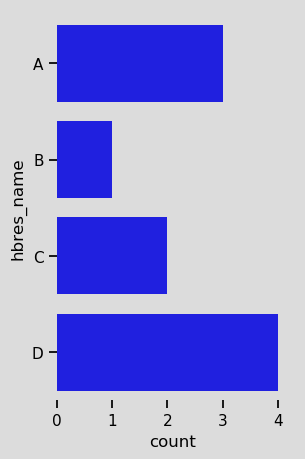
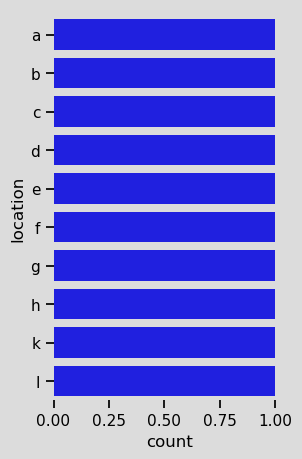
Changed the layout of the app, added dynamic dropdown with common variables and made plots react to dropdown choice

diff --git a/hello.html b/hello.html
@@ -51,7 +51,7 @@
                         <TD>Number of columns</TD>
                     </TR>
                     <TR>
-                        <TD>9</TD>
+                        <TD>11</TD>
                         <TD>5</TD>
                     </TR>
                 </table>
@@ -114,17 +114,17 @@
             
                 <TR>
                     <TD>location</TD>
-                    <TD class=unique_highlight>
+                    <TD class=>
                         10
                     </TD>
-                    <TD class=unique_highlight>
-                        9
-                    </TD>
                     <TD class=>
+                        10
+                    </TD>
+                    <TD class=na_highlight>
                         0
                     </TD>
-                    <TD class=>
-                        0
+                    <TD class=na_highlight>
+                        1
                     </TD>
                 </TR>
             
@@ -136,43 +136,43 @@
                     <TD class=>
                         2
                     </TD>
-                    <TD class=na_highlight>
+                    <TD class=>
                         2
                     </TD>
-                    <TD class=na_highlight>
-                        1
+                    <TD class=>
+                        2
                     </TD>
                 </TR>
             
                 <TR>
                     <TD>age</TD>
-                    <TD class=>
+                    <TD class=unique_highlight>
                         6
                     </TD>
-                    <TD class=>
-                        6
+                    <TD class=unique_highlight>
+                        5
                     </TD>
-                    <TD class=>
+                    <TD class=na_highlight>
                         0
                     </TD>
-                    <TD class=>
-                        0
+                    <TD class=na_highlight>
+                        2
                     </TD>
                 </TR>
             
                 <TR>
                     <TD>episodes</TD>
-                    <TD class=unique_highlight>
+                    <TD class=>
                         7
                     </TD>
-                    <TD class=unique_highlight>
-                        6
-                    </TD>
                     <TD class=>
+                        7
+                    </TD>
+                    <TD class=na_highlight>
                         0
                     </TD>
-                    <TD class=>
-                        0
+                    <TD class=na_highlight>
+                        1
                     </TD>
                 </TR>
             

diff --git a/tkinter_app.py b/tkinter_app.py
@@ -6,12 +6,13 @@ Use subprocess call to add support for running external scripts
 Re-factor into more meaningful classes
 '''
 
-from tkinter import Tk, Label, Button, filedialog, StringVar, OptionMenu, Frame, W
+from tkinter import Tk, Label, Button, filedialog, StringVar, OptionMenu, Frame, W, LEFT
+from tkinter import ttk
 import os
 import pandas as pd
 
 from jinja_app import generate_report
-
+from summary_stats import generate_summary
 
 class BasicGUI:
     #CHILD OF ROOT (TOP-LEVEL WINDOW)
@@ -24,7 +25,8 @@ class BasicGUI:
 
         master.title("Dataset comparison tool")
 
-        self.label = Label(self.myContainer, text="Use the buttons to operate the tool!").grid(row=0, column=0, pady=10, padx=5)
+        self.label = (Label(self.myContainer, text="Use the buttons to operate the tool!")
+                            .grid(row=0, column=0, columnspan=2, pady=10, padx=5))
 
         self.first_button = Button(self.myContainer, text="Pick the First File", command=self.open_file_1)
         self.first_button.grid(row=1, column=0, sticky=W)
@@ -37,25 +39,32 @@ class BasicGUI:
         self.filename_2 = 'C:\\Users\\germap01\\Python\\UNSORTED\\Hackathon\\2019\\Working\\data_2.csv'
         
         #Create a dropdown
-        self.tkvar = StringVar(self.myContainer)
-        self.choices = ['Pizza','Lasagne','Fries','Fish','Potatoe']
-        self.tkvar.set('Pizza')
 
-        popupMenu = OptionMenu(self.myContainer, self.tkvar, *self.choices)
-        Label(self.myContainer, text="Choose a dish").grid(row=3, column=0, sticky=W)
-        popupMenu.grid(row=3, column=1, pady=(2,8), sticky=W)
+        def populateDropdown():
+
+            common_values = list(generate_summary(self.filename_1, self.filename_2)['Metadata']['common_vars'].keys())
+            popupMenu['values']=common_values
+
+        dropdownText = "Choose a common variable to plot"
+        dropdownLabel=Label(self.myContainer, text=dropdownText, wraplength=110, anchor=W, justify=LEFT)
+        dropdownLabel.grid(row=3, column=0, pady=(5,20), sticky=W)
+
+        self.choices = ['None']
+        popupMenu = ttk.Combobox(self.myContainer, values=self.choices, postcommand=populateDropdown)
+        popupMenu.grid(row=3, column=1, padx=10, pady=(5,20), sticky=W)
+        popupMenu.current(0)
 
         # on change dropdown value
-        def change_dropdown(*args):
-            print( self.tkvar.get() )
-
-        # link function to change dropdown
-        self.tkvar.trace('w', change_dropdown)
+        def callbackFunc(event):
+            print(popupMenu.get())
+            self.var_to_plot = popupMenu.get()
+    
+        popupMenu.bind("<<ComboboxSelected>>", callbackFunc)
 
         self.jinja_button = Button(self.myContainer, text="MAGIC!", command=self.run_jinja)
         self.jinja_button.grid(row=4, column=0, sticky=W)
 
-        self.close_button = Button(self.myContainer, text="That's enough magic for now", command=self.myContainer.quit)
+        self.close_button = Button(self.myContainer, text="CLOSE APP", command=self.myContainer.quit)
         self.close_button.grid(row=5, column=0, sticky=W)
 
     #FUNCTIONS:
@@ -66,10 +75,10 @@ class BasicGUI:
         self.filename_2 = filedialog.askopenfilename(initialdir = os.getcwd(), title = "Select file")
 
     def run_jinja(self):
-        generate_report(self.filename_1, self.filename_2)
+        generate_report(self.filename_1, self.filename_2, self.var_to_plot)
 
 root = Tk()
-root.geometry("500x500")
+root.geometry("320x400")
 my_gui = BasicGUI(root)
 
 #Position the myContainer in the middle of the Main Window 3x3 grid
@@ -77,7 +86,6 @@ root.grid_rowconfigure(1, weight=1)
 root.grid_rowconfigure(2, weight=1)
 root.grid_columnconfigure(0, weight=1)
 root.grid_columnconfigure(2, weight=1)
-
 
 #RUN TKINTER LOOP
 root.mainloop()

diff --git a/seaborn_plots.py b/seaborn_plots.py
@@ -4,7 +4,7 @@ from PIL import Image
 import matplotlib.pyplot as plt
 import io
 
-def generate_plots(data_path_1, data_path_2):
+def generate_plots(data_path_1, data_path_2, var_name):
 
     df1 = pd.read_csv(data_path_1)
     df2 = pd.read_csv(data_path_2)
@@ -24,19 +24,19 @@ def generate_plots(data_path_1, data_path_2):
         'axes.spines.bottom':False
         })
 
-    max_y = max(max(df1['hbres_name'].value_counts()), max(df1['hbres_name'].value_counts()))
+    max_y = max(max(df1[var_name].value_counts()), max(df1[var_name].value_counts()))
 
     #Frequency graph of the first dataset
     fig_1, ax_1 = plt.subplots()
     ax_1.set_ylim(0,max_y)
-    sns.countplot(y='hbres_name', data=df1, color='blue')
+    sns.countplot(y=var_name, data=df1, color='blue')
 
     #Frequency graph of the seconda dataset
     #interesting point: if draw in different sorting orders, the pixel-by-pixel will fail
-    #order=df2['hbres_name'].value_counts().index
+    #order=df2[var_name].value_counts().index
     fig_2, ax_2 = plt.subplots()
     ax_2.set_ylim(0,max_y)
-    sns.countplot(y='hbres_name', data=df2, color='blue')
+    sns.countplot(y=var_name, data=df2, color='blue')
 
     fig_1.savefig(r'static/images/image_1.png', bbox_inches="tight")
 

diff --git a/jinja_app.py b/jinja_app.py
@@ -4,13 +4,13 @@ from seaborn_plots import generate_plots
 from summary_stats import generate_summary
 
 
-def generate_report(data_path_1, data_path_2):
+def generate_report(data_path_1, data_path_2, var_to_plot):
 
     #Generate basic dataset information
     summary = generate_summary(data_path_1, data_path_2)
 
     #Generate images to be used in Jinja template
-    generate_plots(data_path_1, data_path_2)
+    generate_plots(data_path_1, data_path_2, var_to_plot)
 
     #Template Loading Machinery
     env = Environment(loader=FileSystemLoader(os.getcwd()))
